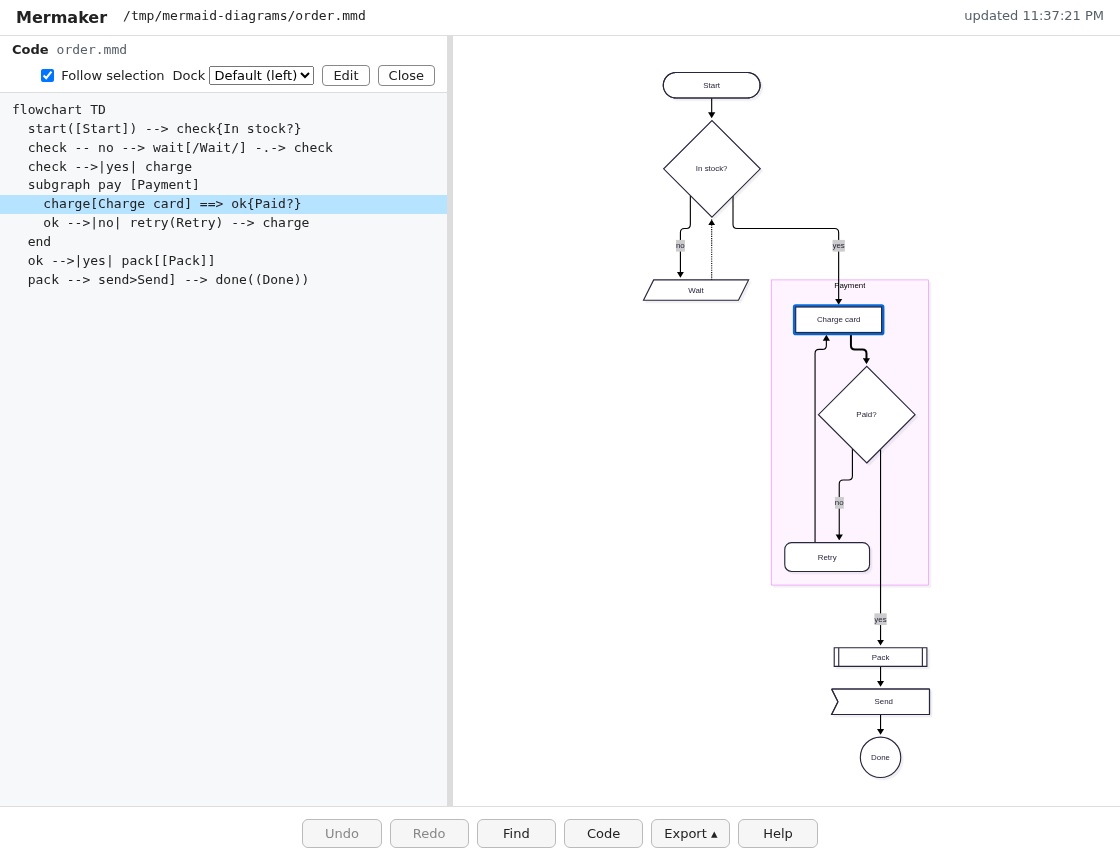
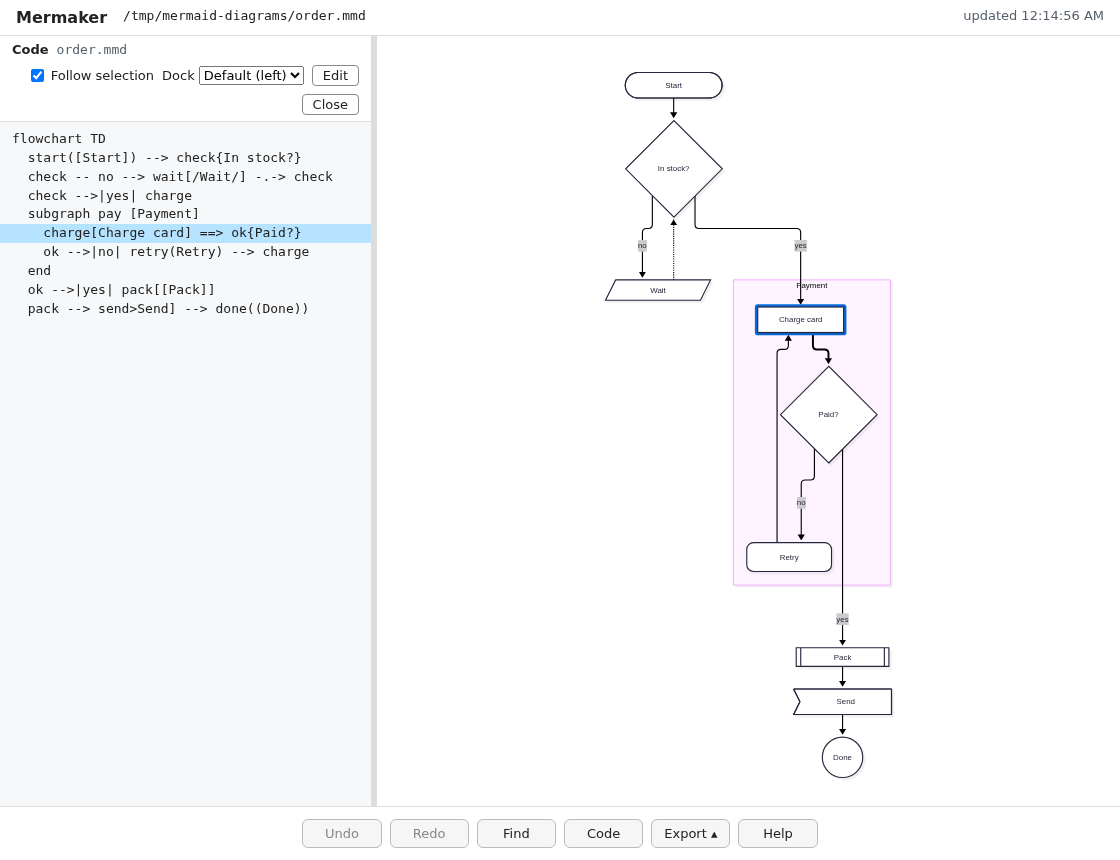
fix: the code panel's toolbar wraps inside the panel at any width
Below about 1150 px of window width the panel's default width was narrower than its controls, and Close lay under the diagram. The README's screenshot is retaken at the default width.

diff --git a/web/style.css b/web/style.css
@@ -184,7 +184,8 @@ footer button:disabled { cursor: default; color: var(--disabled); }
 #code-panel .code-head { display: flex; flex-wrap: wrap; align-items: center; gap: 8px; padding: 6px 12px; border-bottom: 1px solid var(--border); }
 #code-panel h2 { margin: 0; font-size: inherit; }
 /* The controls wrap to a second row together, right-aligned, before the file name is cut to nothing. */
-#code-panel .code-actions { display: flex; align-items: center; gap: 8px; margin-left: auto; }
+#code-panel .code-actions { display: flex; flex-wrap: wrap; justify-content: flex-end; align-items: center; gap: 8px;
+                            margin-left: auto; min-width: 0; }
 #code-panel .code-file { flex: 0 1 auto; min-width: 4em; color: var(--text-muted); font-family: ui-monospace, monospace; white-space: nowrap;
                          overflow: hidden; text-overflow: ellipsis; }
 #code-panel select, #code-panel button { font: inherit; }

diff --git a/checks/README.md b/checks/README.md
@@ -89,6 +89,6 @@ item. It reads the text of the diagram's `<style>` element aloud, which real scr
 `docs/screenshot.png` is retaken at a release, so it shows the page as it is. Take it on a development server, light
 page theme, of `checks/screenshot.mmd` copied to `/tmp/mermaid-diagrams/order.mmd` and served from there, so the
 header shows no one's own path: the code panel open on the left
-with Follow selection checked, its default width widened until its buttons fit, the whole diagram fitted, and one
+with Follow selection checked at its default width, the whole diagram fitted, and one
 node in the subgraph ("Charge card") selected. `pw-repl send viewport 1120x860`, then `screenshot docs/screenshot.png`. It is left out
 of the npm package (`package.json` `files`).
